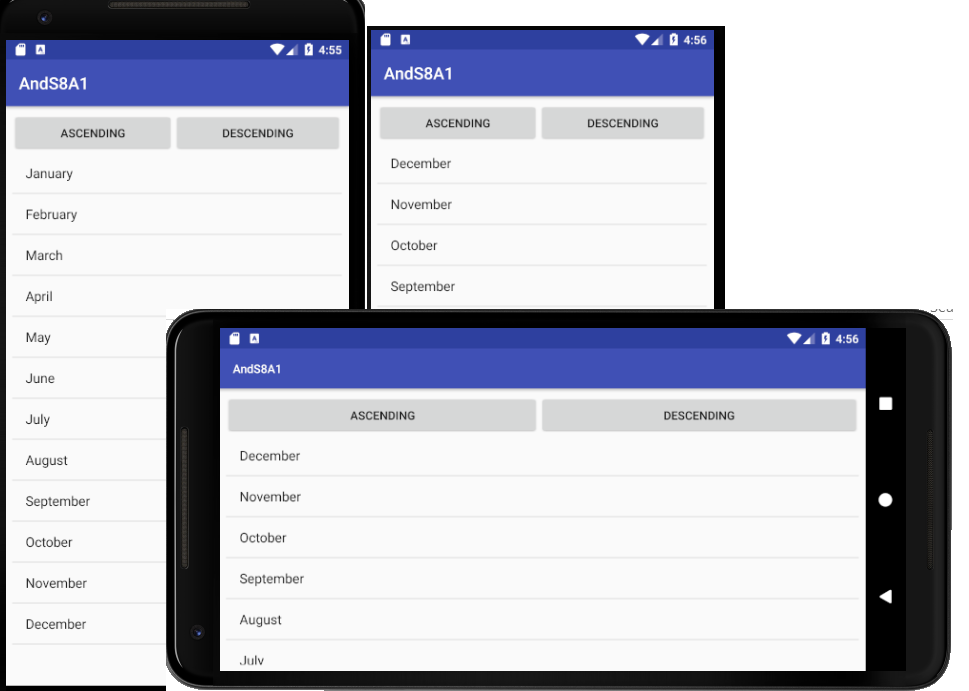
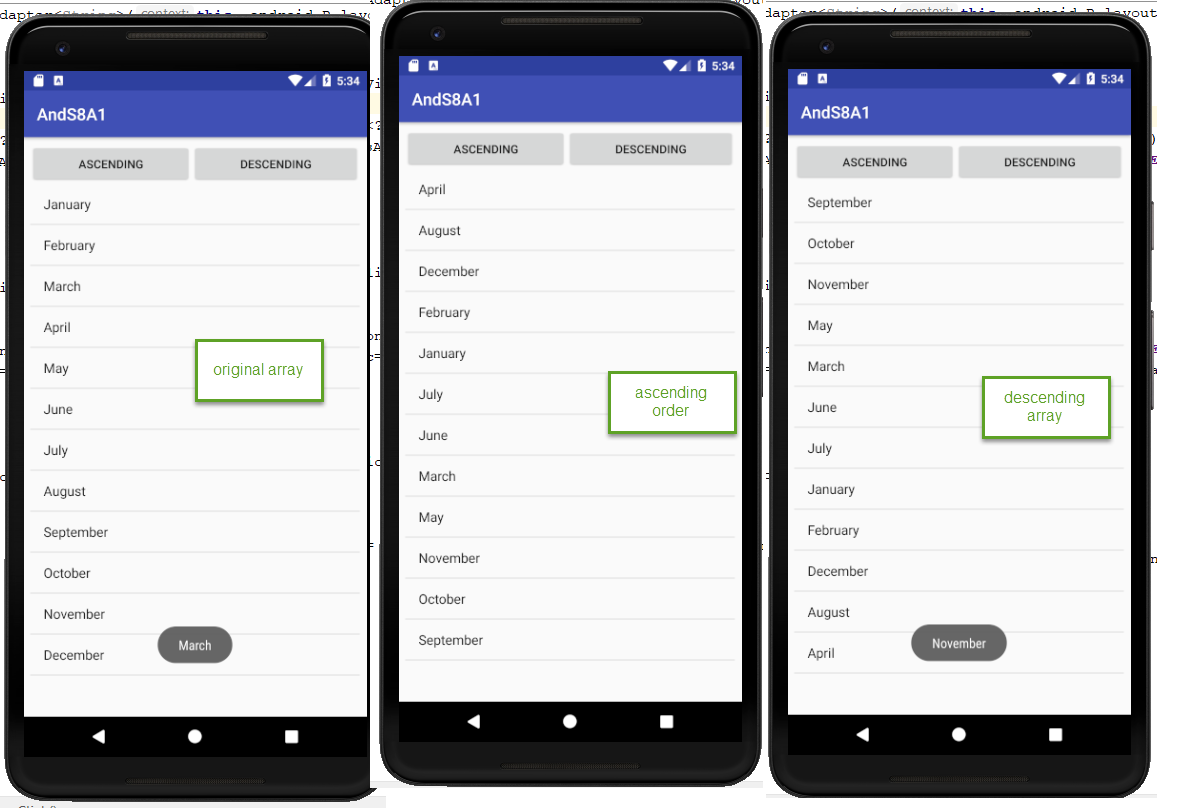
sorting correction

diff --git a/app/src/main/java/com/mehta/android/ands8a1/AscDesActivity.java b/app/src/main/java/com/mehta/android/ands8a1/AscDesActivity.java
@@ -9,6 +9,9 @@ import android.widget.AdapterView;
 import android.view.View;
 import android.widget.Toast;
 
+import java.util.Arrays;
+import java.util.Collections;
+
 /*
 import android.os.Bundle;
 import android.support.annotation.Nullable;
@@ -21,7 +24,7 @@ public class AscDesActivity extends AppCompatActivity {
     ListView list;
     String[] strMonths= new String[]{"January","February","March","April","May","June",
             "July","August", "September","October", "November", "December"};
-    boolean blnOrderMode=true;
+
 
     @Override
     protected void onCreate(Bundle savedInstanceState) {
@@ -39,35 +42,30 @@ public class AscDesActivity extends AppCompatActivity {
         list.setOnItemClickListener(new AdapterView.OnItemClickListener() {
             @Override
             public void onItemClick(AdapterView<?> parent, View view, int position, long id) {
-                if(blnOrderMode)
                     Toast.makeText(AscDesActivity.this, strMonths[position], Toast.LENGTH_SHORT).show();
-                else
-                    Toast.makeText(AscDesActivity.this, strMonths[11-position], Toast.LENGTH_SHORT).show();
             }
         });
 
 
+        /* Alphabetical descending order */
 
         btnDesc.setOnClickListener(new View.OnClickListener() {
             @Override
             public void onClick(View v) {
-                String[] strTempMonths = new String[12];
-                for(int i=0; i<12;i++){
-                    strTempMonths[11-i]=strMonths[i];
-                }
-                ArrayAdapter<String> adapterDesc= new ArrayAdapter<String>(v.getContext(), android.R.layout.simple_list_item_1, strTempMonths);
+                Arrays.sort(strMonths, Collections.reverseOrder(String.CASE_INSENSITIVE_ORDER));
+                ArrayAdapter<String> adapterDesc= new ArrayAdapter<String>(v.getContext(), android.R.layout.simple_list_item_1, strMonths);
                 list.setAdapter(adapterDesc);
-                blnOrderMode=false;
             }
         });
 
+        /* alphabetical ascending order */
         btnAsc.setOnClickListener(new View.OnClickListener() {
             @Override
             public void onClick(View v) {
+                Arrays.sort(strMonths);
                 ArrayAdapter<String> adapterAsc= new ArrayAdapter<String>(v.getContext(), android.R.layout.simple_list_item_1, strMonths);
                 list.setAdapter(adapterAsc);
-                blnOrderMode=true;
-            }
+           }
         });
     }
 
